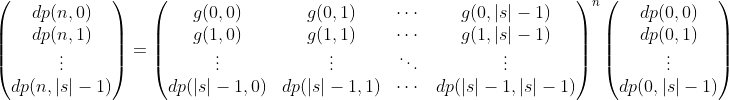
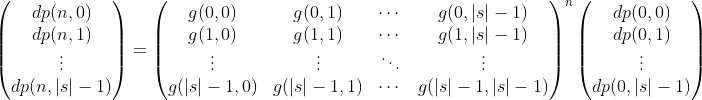
Fixed wrong equation

diff --git a/1268/en.md b/1268/en.md
@@ -58,7 +58,7 @@ Using matrices, we can write:
 
 ![img](mat-def.png)
 
-Since, the square matrix remains constant, we can further imply
+Since, `g(m, m')` is constant, the square matrix in the middle remains constant. Thus
 
 ![img](mat-def-2.png)
 
